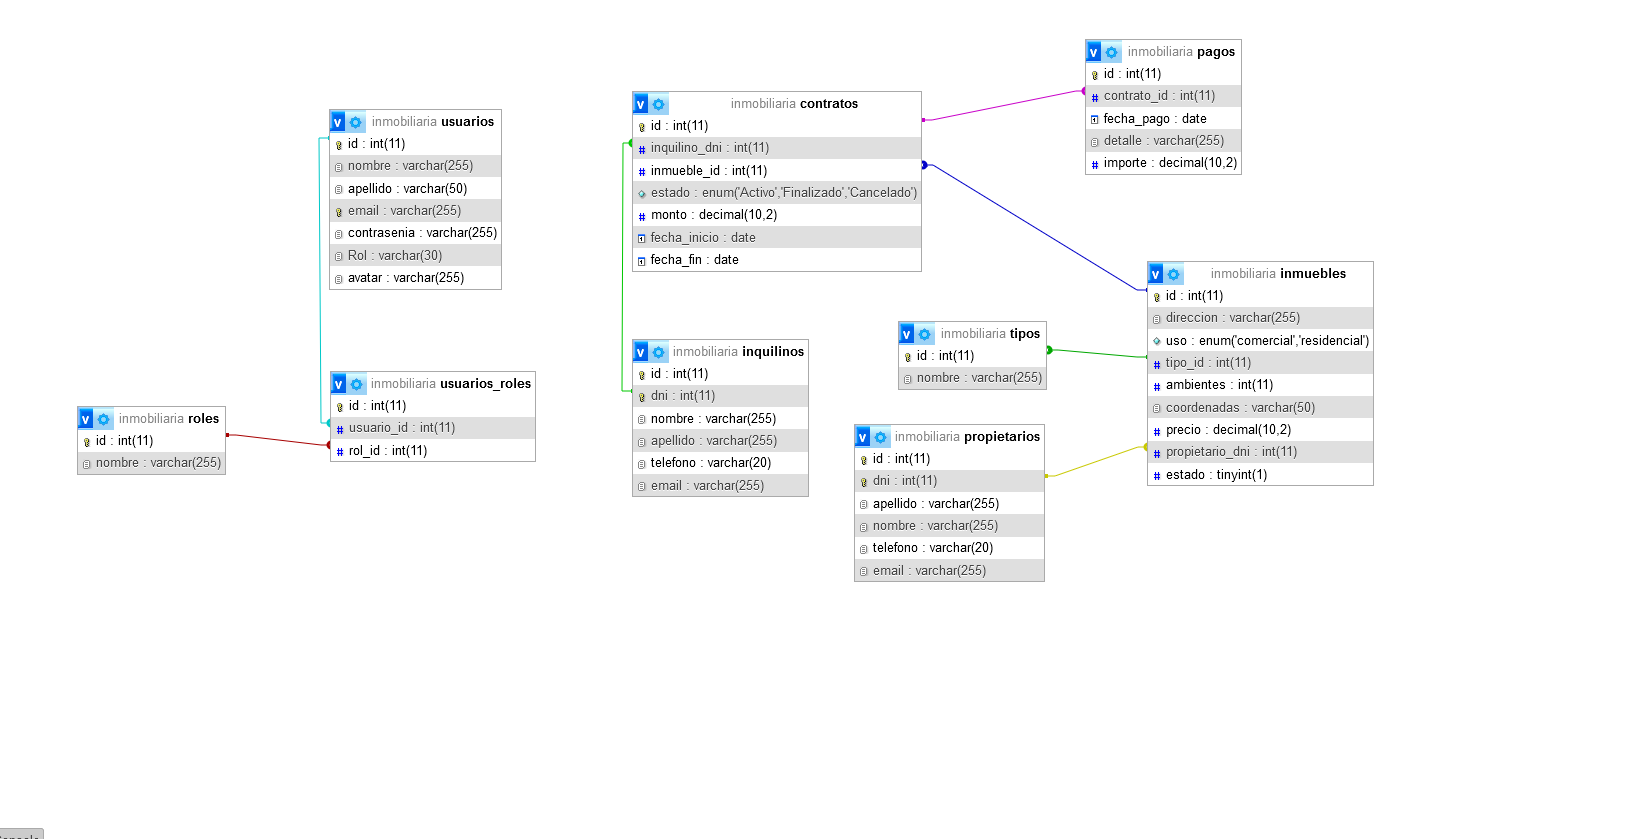
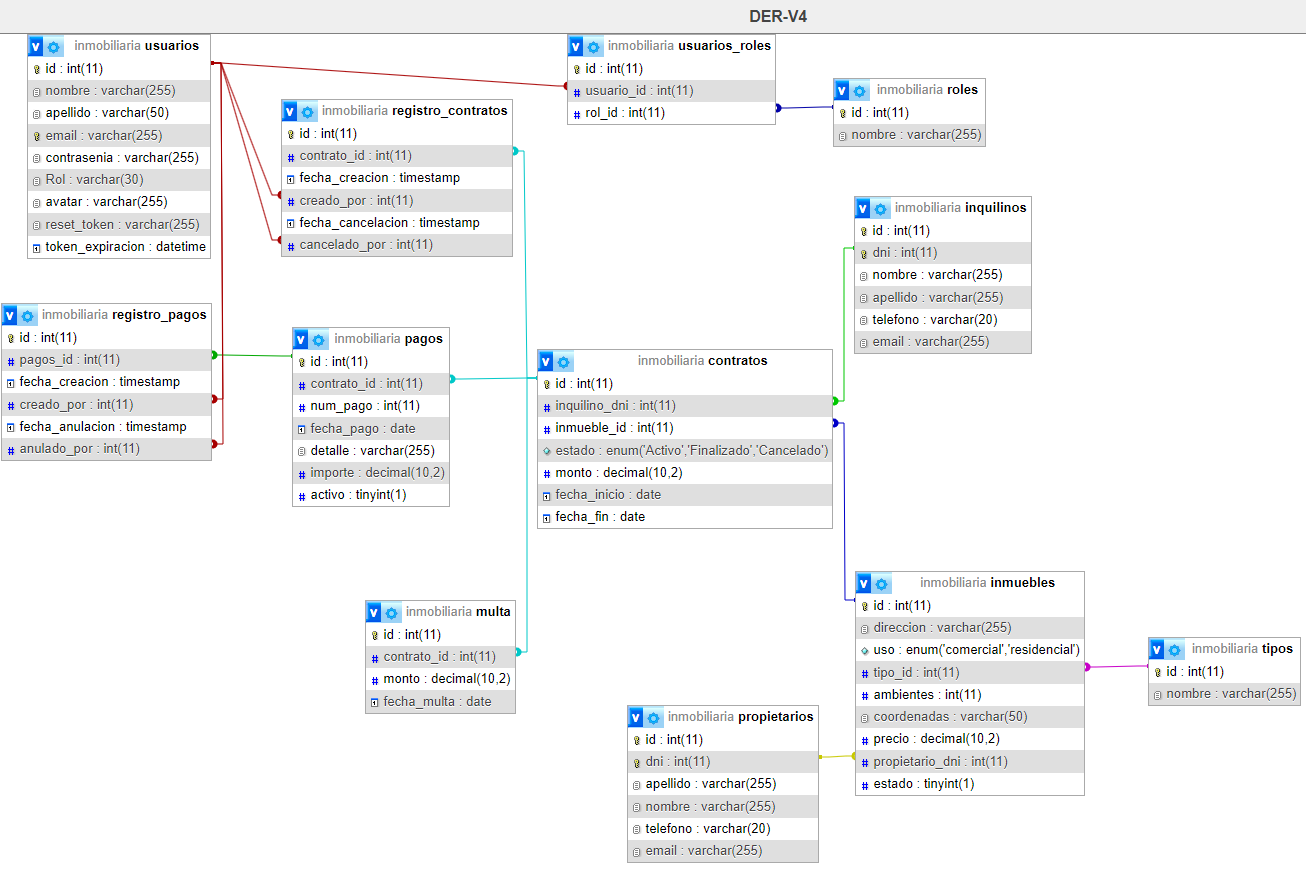
Changes on search style

diff --git a/wwwroot/css/site.css b/wwwroot/css/site.css
@@ -34,3 +34,71 @@ body {
   transform: translateY(-10px);
   box-shadow: 0 10px 20px rgba(0, 0, 0, 0.15);
 }
+
+/* ESTILO DE BÚSQUEDA */
+.input-wrapper {
+  display: flex;
+  align-items: center;
+  justify-content: center;
+  gap: 15px;
+  position: relative;
+}
+
+.input {
+  border-style: none;
+  height: 50px;
+  width: 50px;
+  padding: 10px;
+  outline: none;
+  border-radius: 50%;
+  transition: 0.5s ease-in-out;
+  background-color: var(--gris-claro);
+  box-shadow: 0px 0px 3px var(--gris-claro);
+  padding-right: 40px;
+  color: var(--gris-oscuro);
+}
+
+.input::placeholder,
+.input {
+  font-family: "Trebuchet MS", "Lucida Sans Unicode", "Lucida Grande",
+    "Lucida Sans", Arial, sans-serif;
+  font-size: 17px;
+  color: #911b1b;
+}
+
+.input::placeholder {
+  color: #8a4f4f;
+}
+
+/* Animación del botón */
+.icon {
+  display: flex;
+  align-items: center;
+  justify-content: center;
+  position: absolute;
+  cursor: pointer;
+  width: 40px;
+  height: 40px;
+  outline: none;
+  border-style: none;
+  border-radius: 50%;
+  pointer-events: painted;
+  background-color: transparent;
+  color: #490d0d;
+  transition: transform 0.5s ease-in-out;
+}
+
+/* Cuando el input se expande, movemos el botón */
+.input.expanded {
+  width: 250px;
+  border-radius: 0px;
+  background-color: transparent;
+  border-bottom: 3px solid #911b1b;
+  transition: all 500ms cubic-bezier(0, 0.11, 0.35, 2);
+}
+
+/* Mover el botón hacia la derecha */
+.icon.move {
+  transform: translateX(100px);
+  color: var(--gris-oscuro);
+}

diff --git a/wwwroot/js/site.js b/wwwroot/js/site.js
@@ -1,4 +1,31 @@
-// Please see documentation at https://learn.microsoft.com/aspnet/core/client-side/bundling-and-minification
-// for details on configuring this project to bundle and minify static web assets.
+//JS FOR SEARCH
+document.addEventListener("DOMContentLoaded", function () {
+  const searchForm = document.getElementById("searchForm");
+  const searchButton = document.getElementById("searchButton");
+  const searchInput = document.getElementById("searchInput");
 
-// Write your JavaScript code.
+  searchButton.addEventListener("click", function (event) {
+    // Si el input no está expandido, lo expandimos y movemos el botón
+    if (!searchInput.classList.contains("expanded")) {
+      event.preventDefault(); // Evita que se envíe el formulario
+      searchInput.classList.add("expanded");
+      searchButton.classList.add("move"); // Mueve el botón a la derecha
+      searchInput.focus();
+    }
+  });
+
+  // Permitir el envío del formulario cuando el usuario presione "Enter"
+  searchInput.addEventListener("keydown", function (event) {
+    if (event.key === "Enter" && searchInput.classList.contains("expanded")) {
+      searchForm.submit();
+    }
+  });
+
+  // Ocultar el input y mover el botón de vuelta si el usuario hace clic fuera
+  document.addEventListener("click", function (event) {
+    if (!searchForm.contains(event.target)) {
+      searchInput.classList.remove("expanded");
+      searchButton.classList.remove("move"); // Regresar el botón a su posición original
+    }
+  });
+});
